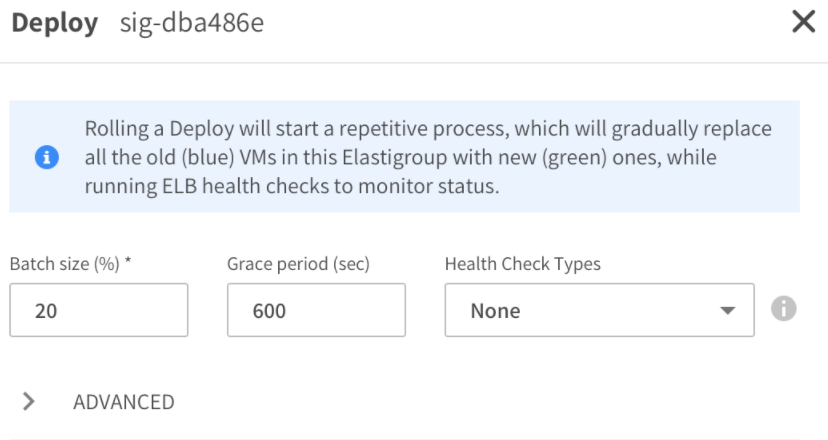
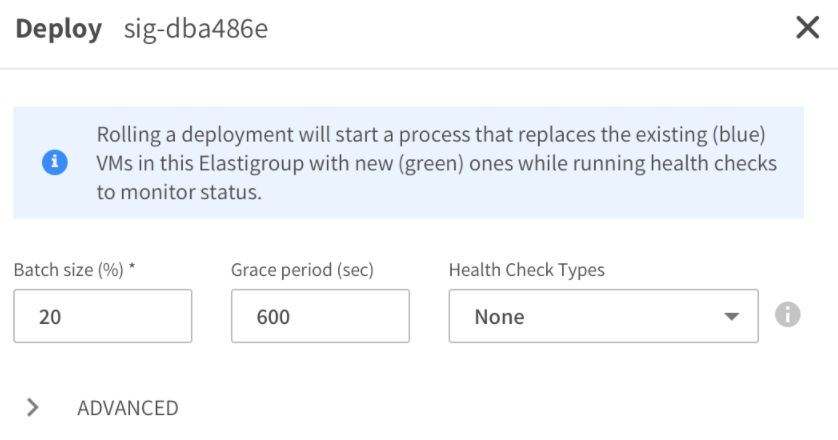
Deploying to gh-pages from  @ cbb6779363bd472d785e201321c70f57a6fedc30 🚀

diff --git a/elastigroup/tutorials/azure/deploy-an-elastigroup.md b/elastigroup/tutorials/azure/deploy-an-elastigroup.md
@@ -1,1 +1,97 @@
 # Deploy an Elastigroup
+
+Whenever you wish to upgrade your application version or any configuration attribute in the Elastigroup, you can run Elastigroup’s blue-green deployment to update the VMs in the group.
+Instead of having to write your own scripts, you simply provide a new image and define your desired batch sizes, and  Elastigroup will replace your VMs with updated versions. Each batch waits for healthy (green) instances before moving on to the next batch, ensuring high availability for your workloads.
+
+This procedure describes how to execute a blue-green deployment of an Elastigroup and shows you how to view information about past deployments and deployments in progress.
+
+## Relevance
+
+This tutorial is relevant for users of Spot with Microsoft Azure.
+
+## When to Use
+
+You will need to run a deployment whenever one of the following cases applies:
+* You have upgraded application versions in your cluster.
+* You have made changes to the Elastigroup that affect the VM configuration. In this case, you will be prompted automatically to create a new deployment after updating the configuration.
+
+<img src="/elastigroup/_media/tutorials-azure-deploy-eg-00.png" />
+
+Use the procedure below to create the new deployment starting from Step 3.
+
+## Create a New Deployment
+
+If you need to create a new deployment and you have not received the prompt shown above, use the steps below to create and roll the deployment.
+1. Go to Elastigroup/Groups and click an Elastigroup.
+2. Click More Actions and click Deploy.
+
+<img src="/elastigroup/_media/tutorials-azure-deploy-eg-01.png" />
+
+   Alternatively, in the Elastigroups Summary click the Deployments tab and click Deploy.
+
+<img src="/elastigroup/_media/tutorials-azure-deploy-eg-02.png" />
+
+3. Complete the information in the Deployment dialog:
+
+<img src="/elastigroup/_media/tutorials-azure-deploy-eg-03.png" />
+
+   * Batch size: The size of each batch in the deployment as a percent of the total number of VMs in the group. For example, a group with 20% will deploy VMs in five separate batches.
+   * Grace period: The amount of time to wait for a VM to be deemed healthy according to the health check setting before the deployment starts the next batch. The grace period must be at least 120 seconds.
+   * Health Check Types: The health check type to be used for the deployment process. This field is enabled only if at least one [health check type](https://docs.spot.io/api/#operation/elastigroupAzureSpotVmsCreate) has been defined for the Elastigroup.
+4. If you want to used the Advanced parameters, click Advanced and complete the following:
+   * Draining Timeout: The amount of time (seconds) that Elastigroup will de-register and drain the VM before termination. This definition will override the general Draining Timeout defined in the group.
+   * Min. Health: Defines the minimum number of unhealthy VMs (as a %) required for the deployment process to fail. This field is enabled only if at least one health check type or one [signal](https://docs.spot.io/api/#operation/elastigroupAzureSpotVmsCreateVMSignal) has been previously defined.
+5. Click Roll Deployment.
+
+When you roll the deployment, Elastigroup starts a process that replaces the existing (blue) VMs with new (green) ones. The health checks you defined will monitor the status, and a banner will be displayed showing the progress.
+
+<img src="/elastigroup/_media/tutorials-azure-deploy-eg-03a.png" />
+
+## View Deployments
+
+To view information about a deployment in progress or past deployments, go to the Deployments tab in your Elastigroup.
+
+<img src="/elastigroup/_media/tutorials-azure-deploy-eg-04.png" />
+
+The Deployments tab includes the following main areas:
+* Deployment Summary
+* Deployment Details
+
+When at least one deployment is in progress, the Deployments tab refreshes information automatically every 30 seconds.
+
+### Deployment Summary
+
+The Deployment summary is a table that lists deployments created according to Deployment ID. Each deployment shows the following information:
+* Deployment ID
+* Progress
+* Status
+* Created at
+* Ended at
+
+This table shows up to 100 deployments.
+
+### Deployment Details
+
+This area displays the details of the deployment selected in the summary table. The information is divided into the following tabs:
+* Overview: Summary for the selected deployment including:
+  * Deployment ID
+  * Number of batches
+  * Current batch
+  * Status
+  * Started at
+  * Ended at
+  * Health Check
+  * Grace Period
+  * Blue VMs
+  * Green Vms
+* VMs: Listing of each VM in the Elastigroup and current status of the VM. A VM can have one of the following statuses:
+  * Pending
+  * Running
+  * Detached
+  * Healthy
+  * Unhealthy
+* Events: An accounting of each event occurring in deployment, listed in chronological order.
+
+## What’s Next?
+
+Learn more about using the API to [set up health checks](https://docs.spot.io/api/#operation/elastigroupAzureSpotVmsCreate) for your Elastigroup.
